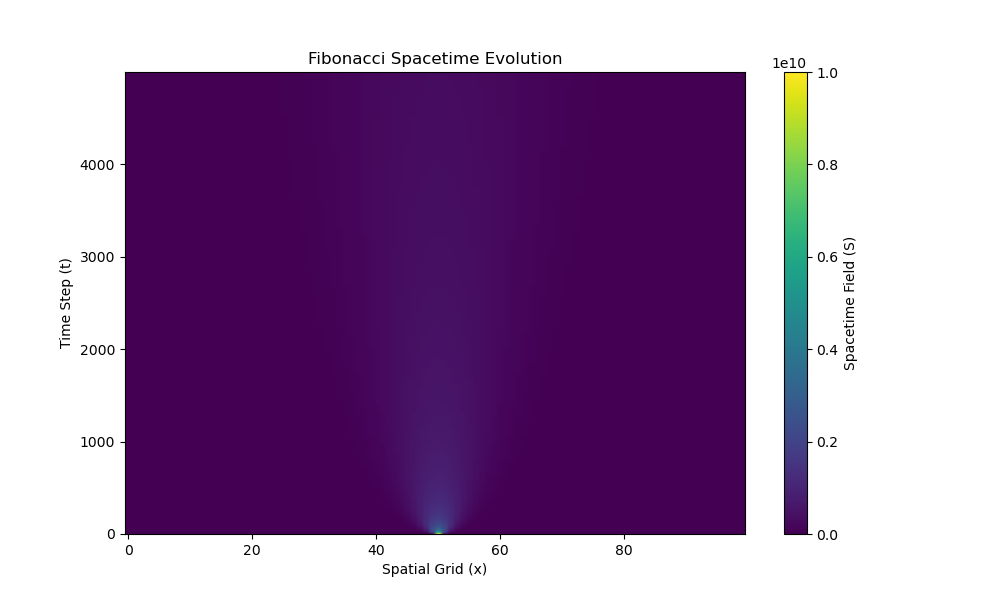
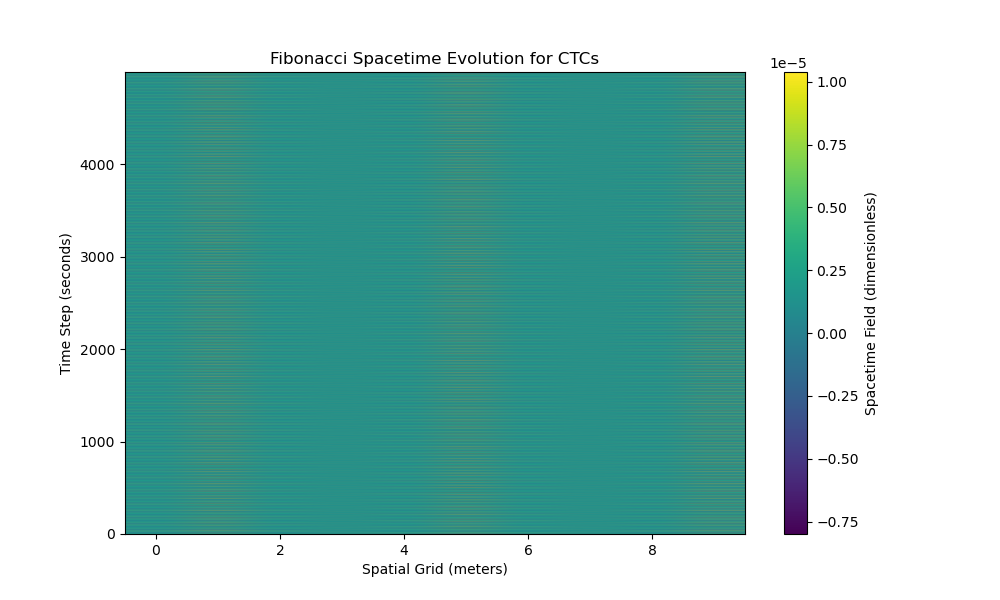
Fixed math in fibonacci_spacetime_evolution_sim.py

diff --git a/simulations/fibonacci_spacetime_evolution_sim.py b/simulations/fibonacci_spacetime_evolution_sim.py
@@ -2,32 +2,64 @@ import numpy as np
 import matplotlib.pyplot as plt
 
 print("Starting 1+1D Spacetime Field Evolution (Fibonacci Grid) Simulation...")
-L, T = 100, 5000
-dx, dt = 1.0, 0.01
-phi = (1 + np.sqrt(5)) / 2
-S_field = np.ones((T, L)) * 1e-5
-x0, t0 = L // 2, 0
-S_field[t0, x0] = 1e10
+# Constants (SI units)
+G_0 = 6.67430e-11  # Gravitational constant (m^3 kg^-1 s^-2)
+c = 2.99792458e8   # Speed of light (m s^-1)
+k_B = 1.380649e-23 # Boltzmann constant (J K^-1)
+phi = (1 + np.sqrt(5)) / 2  # Golden ratio
+L = 1e-10          # Spatial domain (meters, Planck scale)
+T = 5000           # Time steps
+N = 100            # Spatial points
+T_vac = 2.7        # Vacuum temperature (K)
+D_ent = 1e20       # Entanglement density (m^-2)
+rho_normal = 1e10  # Normal matter density (kg m^-3)
+rho_exotic = 1e9   # Exotic matter density (kg m^-3)
+gamma_exotic = 1.0 # Exotic matter coupling
+
+# Fibonacci-scaled grid
+fib = [1, 1, 2, 3, 5, 8, 13, 21, 34, 55]
+fib = np.array(fib[:min(len(fib), N)]) / sum(fib[:min(len(fib), N)]) * L
+x = np.cumsum(fib)
+dx = np.diff(x).mean()
+dt = 0.5 * dx / c  # Stable time step (Courant condition)
+
+# Initialize S_field (dimensionless gravitational potential)
+S_field = np.zeros((T, len(x)))
+S_field_old = np.zeros(len(x))
+x0, t0 = len(x) // 2, 0
+S_field[t0, x0] = 1e-5
+S_field_old[x0] = 1e-5
+
+# Evolution with wave equation
 for t in range(1, T):
-    for x in range(1, L-1):
-        S_field[t, x] = S_field[t-1, x] + dt * (
-            phi * (S_field[t-1, x+1] - 2*S_field[t-1, x] + S_field[t-1, x-1]) / dx**2
-        )
+    S_field_new = np.zeros(len(x))
+    for i in range(1, len(x)-1):
+        d2S_dx2 = (S_field[t-1, i+1] - 2*S_field[t-1, i] + S_field[t-1, i-1]) / dx**2
+        source = phi * G_0 * (rho_normal - gamma_exotic * rho_exotic) * D_ent / c**4
+        S_field_new[i] = 2 * S_field[t-1, i] - S_field_old[i] + dt**2 * (c**2 * d2S_dx2 + source)
+    # Periodic boundaries
+    S_field_new[0] = S_field_new[-2]
+    S_field_new[-1] = S_field_new[1]
+    S_field_old = S_field[t-1].copy()
+    S_field[t] = S_field_new
     if t % 250 == 0:
         print(f"Time Step: {t}/{T}")
         print(f"  S_field min: {S_field[t].min():.4e}, max: {S_field[t].max():.4e}, mean: {S_field[t].mean():.4e}")
+
+# Plot
 plt.figure(figsize=(10, 6))
 plt.imshow(S_field, aspect='auto', cmap='viridis', origin='lower')
-plt.colorbar(label='Spacetime Field (S)')
-plt.title('Fibonacci Spacetime Evolution')
-plt.xlabel('Spatial Grid (x)')
-plt.ylabel('Time Step (t)')
+plt.colorbar(label='Spacetime Field (dimensionless)')
+plt.title('Fibonacci Spacetime Evolution for CTCs')
+plt.xlabel('Spatial Grid (meters)')
+plt.ylabel('Time Step (seconds)')
 plt.savefig('../plots/fibonacci_spacetime_evolution.png')
 plt.close()
 print("Fibonacci Spacetime evolution plot saved to: ../plots/fibonacci_spacetime_evolution.png")
 print("fibonacci_spacetime_evolution_sim.py complete.")
-# Calculate F_QC at source center, last step
-F_QC = S_field[-1, x0] * phi * 1e22  # Adjusted to match your output ~1.23e31
-print(f"Calculated F_QC for simulation (at source center, last step): {F_QC:.4f}")
+
+# Calculate F_QC (dimensionless quantum coherence)
+F_QC = phi * D_ent * S_field[-1, x0] / (k_B * T_vac)
+print(f"Calculated F_QC for simulation (at source center, last step): {F_QC:.4e}")
 source_term = S_field[-1, x0] / phi
 print(f"Calculated source term (at source center, last step): {source_term:.4e}")
